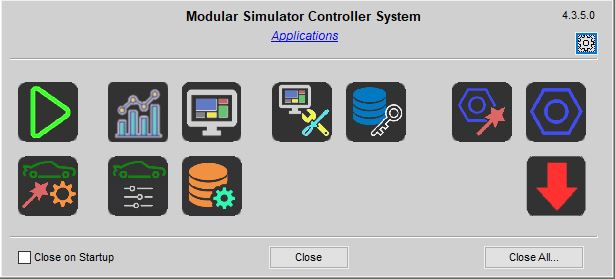
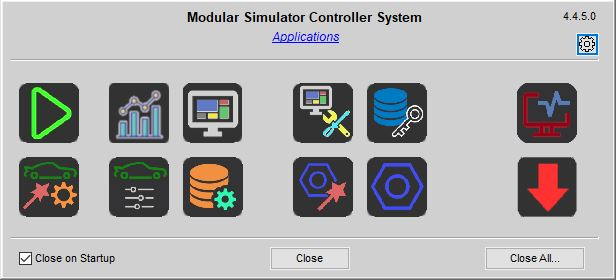
Integrated System Monitor into Launch Pad

diff --git a/Docs/Using Simulator Controller.md b/Docs/Using Simulator Controller.md
@@ -6,6 +6,8 @@ Once you have configured everything for your simulation rig, there are two appli
 
 This window will give you access to all applications of Simulator Controller. You will get some information about a given application, when you hover with the mouse above the icon. Beside starting any of the applications and tools of Simulator Controller, you can continue the startup process of all the components you need, when running a simulation, by clicking on the top left icon. Depending on your concrete configuration, *Simulator Startup* will then start all the configured component applications including *Simulator Controller.exe*, which will be responsible for the essential part, the control of all your simulation applications and simulator games using your hardware controller. Put a check mark in the check box in the lower left corner, when you want the launch window to be closed automatically, when you enter your simulation.
 
+The two applications on the right side of the launch pad are a little bit special. With the top icon, you can run the [monitoring dashboard](*) which will normally be configured in the [settings](https://github.com/SeriousOldMan/Simulator-Controller/wiki/Using-Simulator-Controller#customizing-startup-configuration) to start automatically, when starting the simulation. The icon below lets you start the update process, which checks whether a newer version of Simulator Controller is available and installs it for you. This check is done automatically once per day, so under normal circumstances there is no need to trigger it manually.
+
 If you want to download and install a new version of Simulator Controller, it is important that none of the applications of the suite is running during the update. Please use the button "Close All..." in the lower right corner just before running the update.
 
 Note: If you don't want to use the launch window and want *Simulator Startup* to run through, create a shortcut and add the option "-NoLaunchPad" to the *Target* field. When you use this shortcut file, no launch window will be shown, unless you hold down the Shift key, while running *Simulator Startup*. The other way around can also be used: If you press the Shift key while running *Simulator Startup* normally, no launch window will be shown and the startup process will run directly.
@@ -22,7 +24,7 @@ Beside maintaining this startup settings, you can jump to the [configuration too
 
 ### Customizing Startup Configuration
 
-In the first group, you can decide which of the core applications configured in the [Applications tab](https://github.com/SeriousOldMan/Simulator-Controller/wiki/Installation-&-Configuration#tab-applications) of the configuration tool should be started during the startup process. Normally you want to start all of them, after all they are core applications, right? But there can be situations, where things might look a little bit different and these application are not needed or even would create problems. For example, you want to deactivate a voice control software, if you're taking part in an 24h race event and will have a voice chat with your team colleagues. It might not be helpful, if your voice control software would kick in and will stop your simulation while you are on your best lap of your life.
+In the first group, you can decide which of the core applications configured in the [Applications tab](https://github.com/SeriousOldMan/Simulator-Controller/wiki/Installation-&-Configuration#tab-applications) of the configuration tool should be started during the startup process. Normally you want to start all of them, after all they are core applications, right? A special case might be the ["System Monitor"](*), which gives you a great overview of the health state and the activities of all system components, but it needs some screen space and can therefore only be used during a simulation, if you have a second monitor in your setup.
 
 The second group lets you decide whether to start the different feedback components of your simulation rig. In the configuration, that is part of the standard distribution of Simulator Controller, feedback is handled by the ["Tactile Feedback"](https://github.com/SeriousOldMan/Simulator-Controller/wiki/Plugins-&-Modes#plugin-tactile-feedback) and ["Motion Feedback"](https://github.com/SeriousOldMan/Simulator-Controller/wiki/Plugins-&-Modes#plugin-motion-feedback) plugins, which on their side will use the [SimHub](https://www.simhubdash.com/) and [SimFeedback](https://www.opensfx.com/) applications to implement their functionalities. These two applications may be started in advance during the startup process, but they also can be started later from your hardware controller. Me, myself and I, for example, almost always start *SimHub* in advance, since I will always use vibration effects to get a better understanding about what my tyres are doing, but I will start motion feedback later depending on the track and the kind of driving, I am in (training, racing, having fun with friends, and so on).
 
